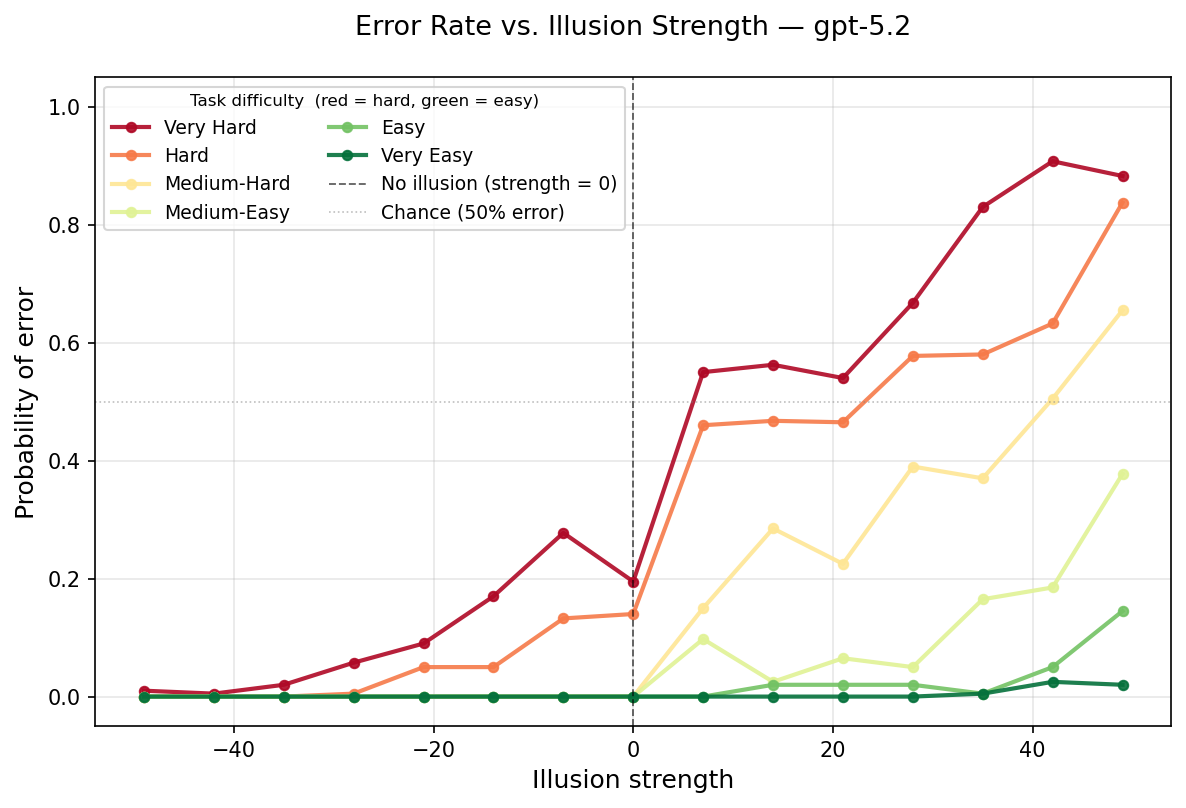
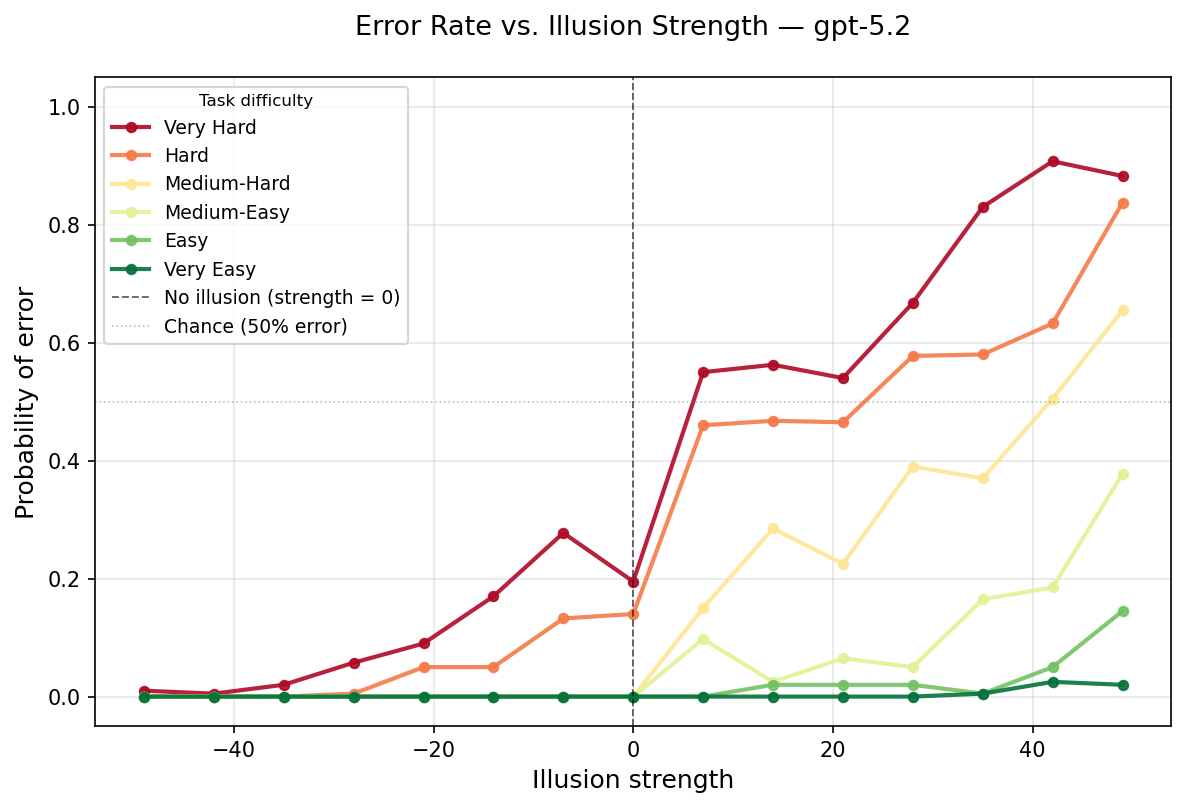
feat: formatted readme for pilot output visibility

Changed region(s): [[0.156, 0.0928, 0.5304, 0.3094], [0.0936, 0.2785, 0.312, 0.4332]]

diff --git a/visualization/plot_results.py b/visualization/plot_results.py
@@ -252,8 +252,7 @@ def plot_error_by_difficulty(
     ax.legend(
         fontsize=9,
         loc="upper left",
-        ncol=2,
-        title="Task difficulty  (red = hard, green = easy)",
+        title="Task difficulty",
         title_fontsize=8,
     )
     ax.grid(True, alpha=0.3)

diff --git a/README.md b/README.md
@@ -1,1 +1,35 @@
-pip install pyllusion pillow openai aiofiles numpy scipy pandas matplotlib
+## Pilot Study: Quantifying Visual Priors in GPT-5.2
+
+To validate our psychophysics-first approach, we conducted a pilot study on GPT-5.2 using the classic Müller-Lyer illusion . We treated the VLM as a human participant, running $N=100$ "synthetic participants" through a strict 2-Alternative Forced Choice (2AFC) task ("Which red line is longer, Top or Bottom?") across a rigorously controlled parametric grid of illusion strengths and physical differences.
+
+The results successfully demonstrate that human psychophysical paradigms can extract and quantify latent "visual priors" in generative models.
+
+### 1. Graded Susceptibility & Asymmetric Bias
+
+![Error Rate vs Difficulty](results/fig1_error_by_difficulty.png)
+_Figure 1: Probability of error as a function of illusion strength and physical task difficulty._
+
+Rather than failing randomly, GPT-5.2 exhibits a systematic, magnitude-dependent susceptibility to the illusion.
+
+- **Interaction with Difficulty:** As the illusion strength increases (moving right on the x-axis), the model's error rate climbs. This effect is heavily amplified on trials where the true physical difference between the lines is small (red/orange lines).
+- **Human-like Asymmetry:** The model is highly susceptible to "incongruent" (positive) illusion configurations. However, when presented with "congruent" (negative) configurations where the fins point outward, the illusion facilitates the correct answer, dropping the error rate to near zero.
+
+### 2. Systematic Shifting of Perceptual Thresholds
+
+![Psychometric Curves](results/fig3_psychometric_curves.png)
+_Figure 2: Fitted cumulative Gaussian psychometric functions for each illusion strength._
+
+By plotting the probability of the model choosing the "Top" line against the true physical difference ($\Delta$), we successfully fitted robust psychometric curves.
+
+- As the positive illusion strength increases (transitioning from yellow to dark red), the entire S-curve smoothly shifts to the right.
+- This proves the model is not suffering from a general degradation in reasoning capabilities; instead, its internal threshold for judging "equality" is being systematically manipulated by the geometric context of the image.
+
+### 3. The Core Metric: Point of Subjective Equality (PSE)
+
+![PSE vs Strength](results/fig2_pse_vs_strength.png)
+_Figure 3: Point of Subjective Equality (PSE) drift across illusion strengths._
+
+To move beyond basic accuracy metrics, we extracted the Point of Subjective Equality (PSE) from the psychometric fits. The PSE represents the exact physical difference required to counteract the model's perception of the illusion.
+
+- The data reveals a clean, monotonic upward drift in PSE. At the maximum tested illusion strength (+49), the target line must be made physically longer by over +0.4 units simply for GPT-5.2 to perceive the two lines as equal.
+- **Significance:** This provides a definitive, interpretable scalar metric for a VLM's visual priors. By establishing this methodology, we can now map how these baseline geometric biases (measured here in 2D) predict downstream robustness failures in complex, naturalistic 3D scenes.
